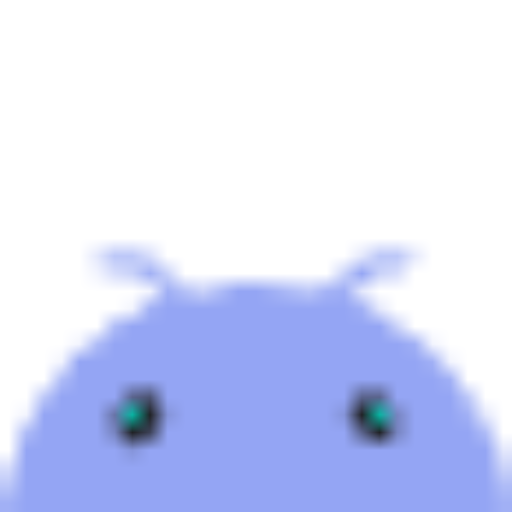
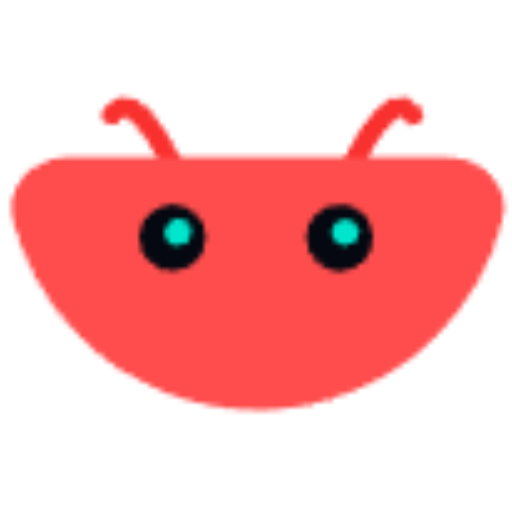
feat: Add initial application UI, branding assets, and styling variables.

diff --git a/src/app/page.jsx b/src/app/page.jsx
@@ -88,7 +88,7 @@ export default function Page() {
       <div className={`${styles.sparkContainer}`}>
         <OceanParticles />
         <header className={clsx(styles.header, `flex align-items-center justify-content-center gap-050`)}>
-          <img alt={`Logo`} src={`/logo.svg`} />
+          <img alt={`Logo`} src={`/logo.svg`} width={24} height={24} />
           <h3>
             <b>{process.env.NEXT_PUBLIC_NAME}</b>
           </h3>

diff --git a/src/styles/abstract/_variables.scss b/src/styles/abstract/_variables.scss
@@ -2,7 +2,7 @@
 // SCSS CONFIGURATION
 // These are available at compile time.
 // ==========================================================================
-$primary-color: #94a5f4;
+$primary-color: #f8312f;
 $primary-color-rgb: 2, 2, 2;
 
 $secondary-color: #9e481d;
